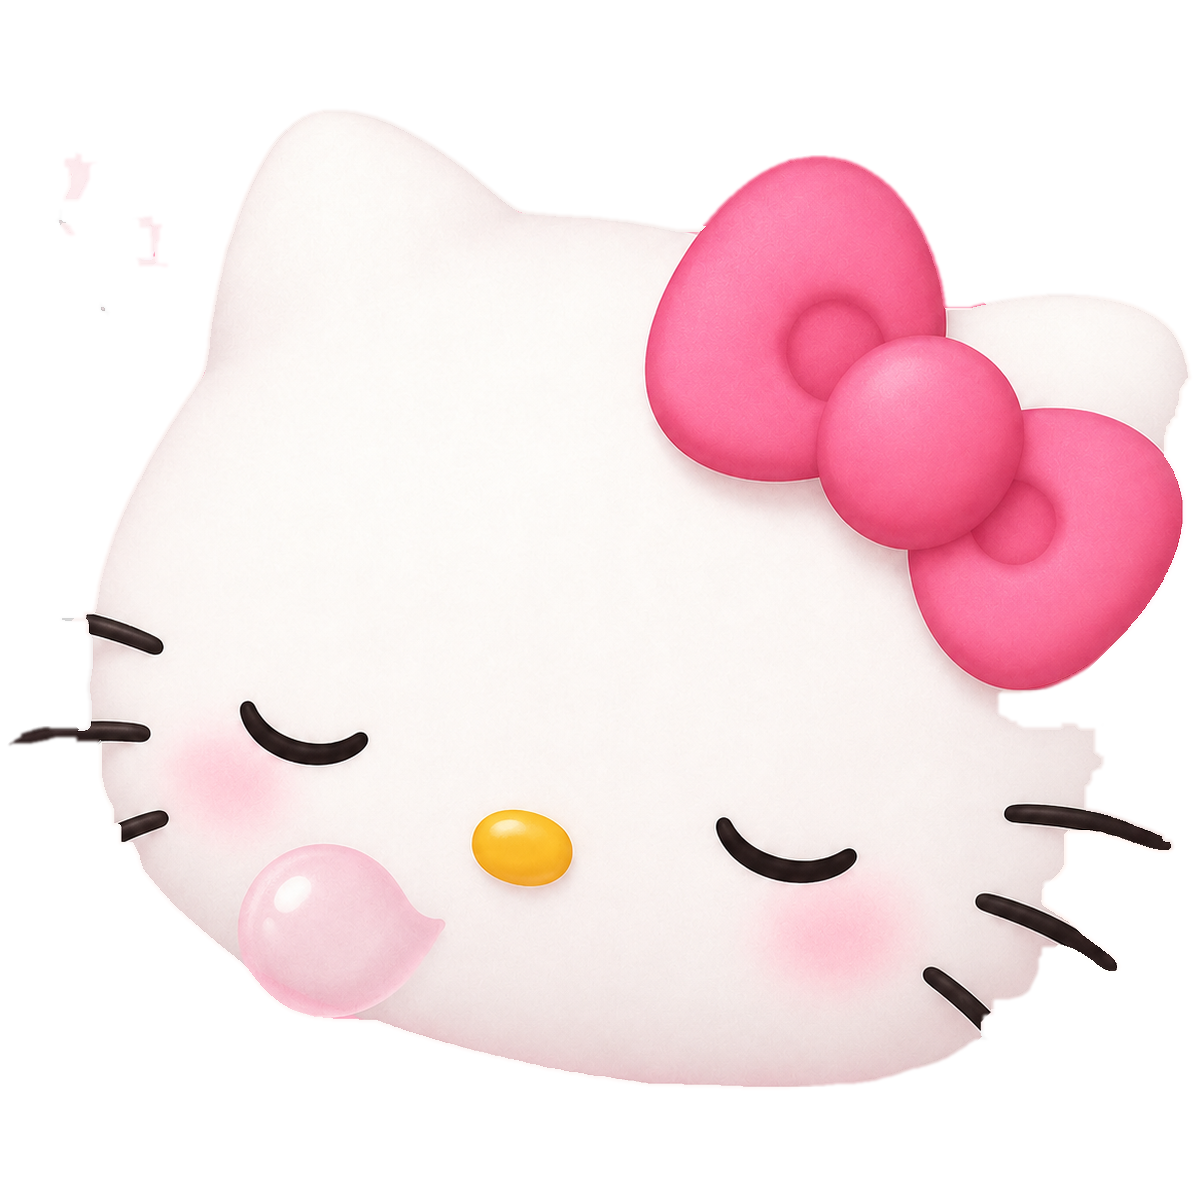
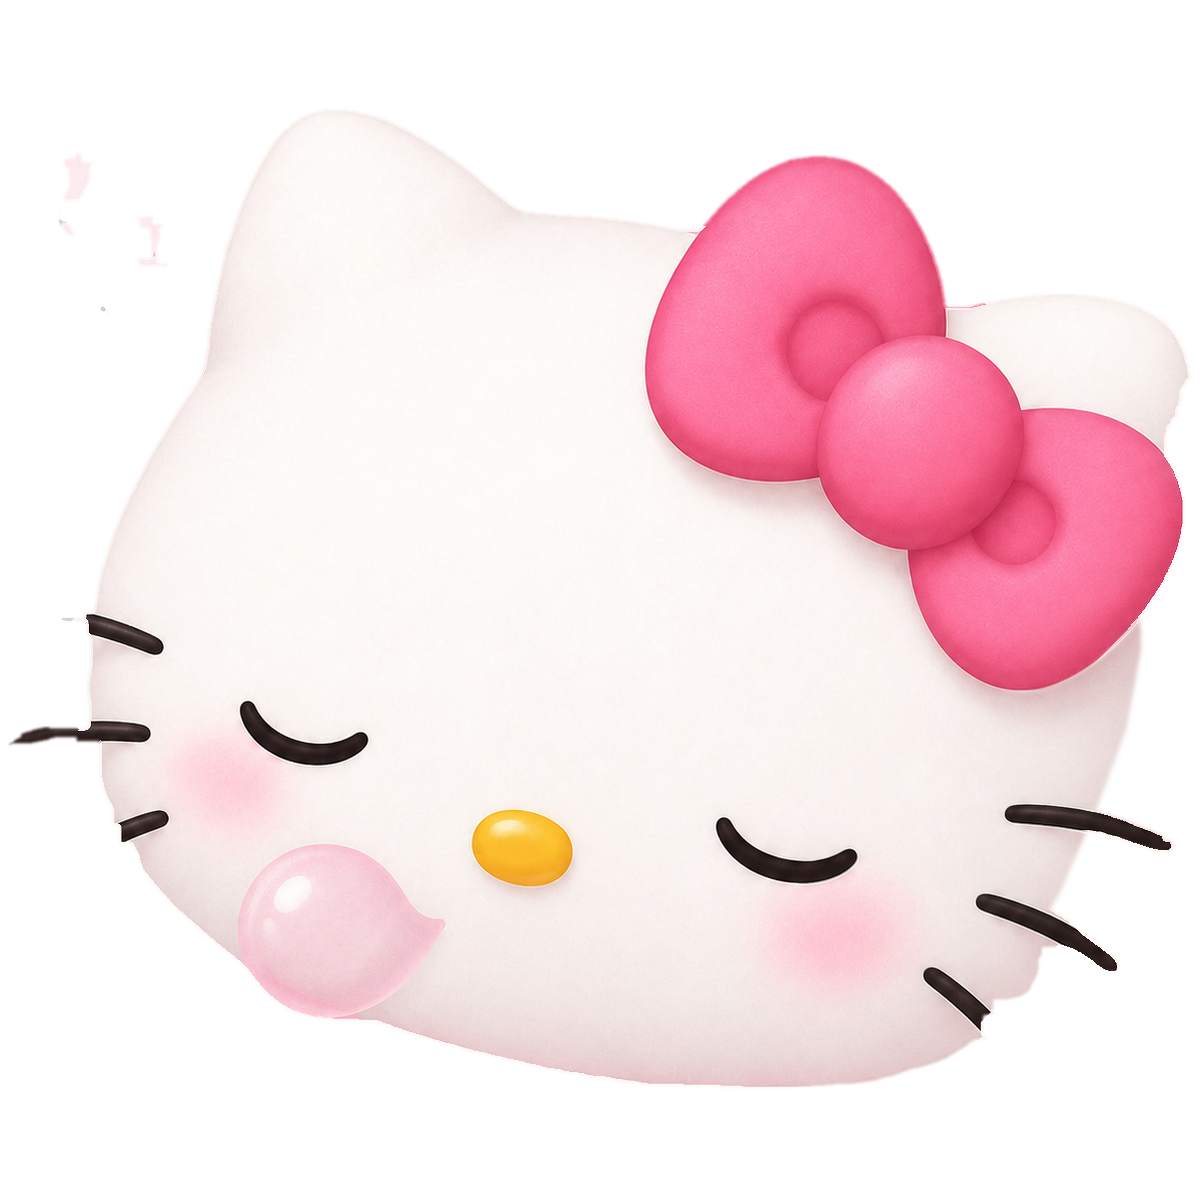
fix: repair sleep pose right edge

Changed region(s): [[0.8325, 0.5242, 0.9558, 0.7708]]

diff --git a/src/pet/assetVersion.ts b/src/pet/assetVersion.ts
@@ -3,4 +3,4 @@
  * 修改 public/assets/pet 下的底图后请递增该值，
  * 让 Canvas 表情帧和 240px 回退 sheet 都绕过 WebView/HTTP 缓存。
  */
-export const ASSET_CACHE_BUST = "v=17";
+export const ASSET_CACHE_BUST = "v=18";
